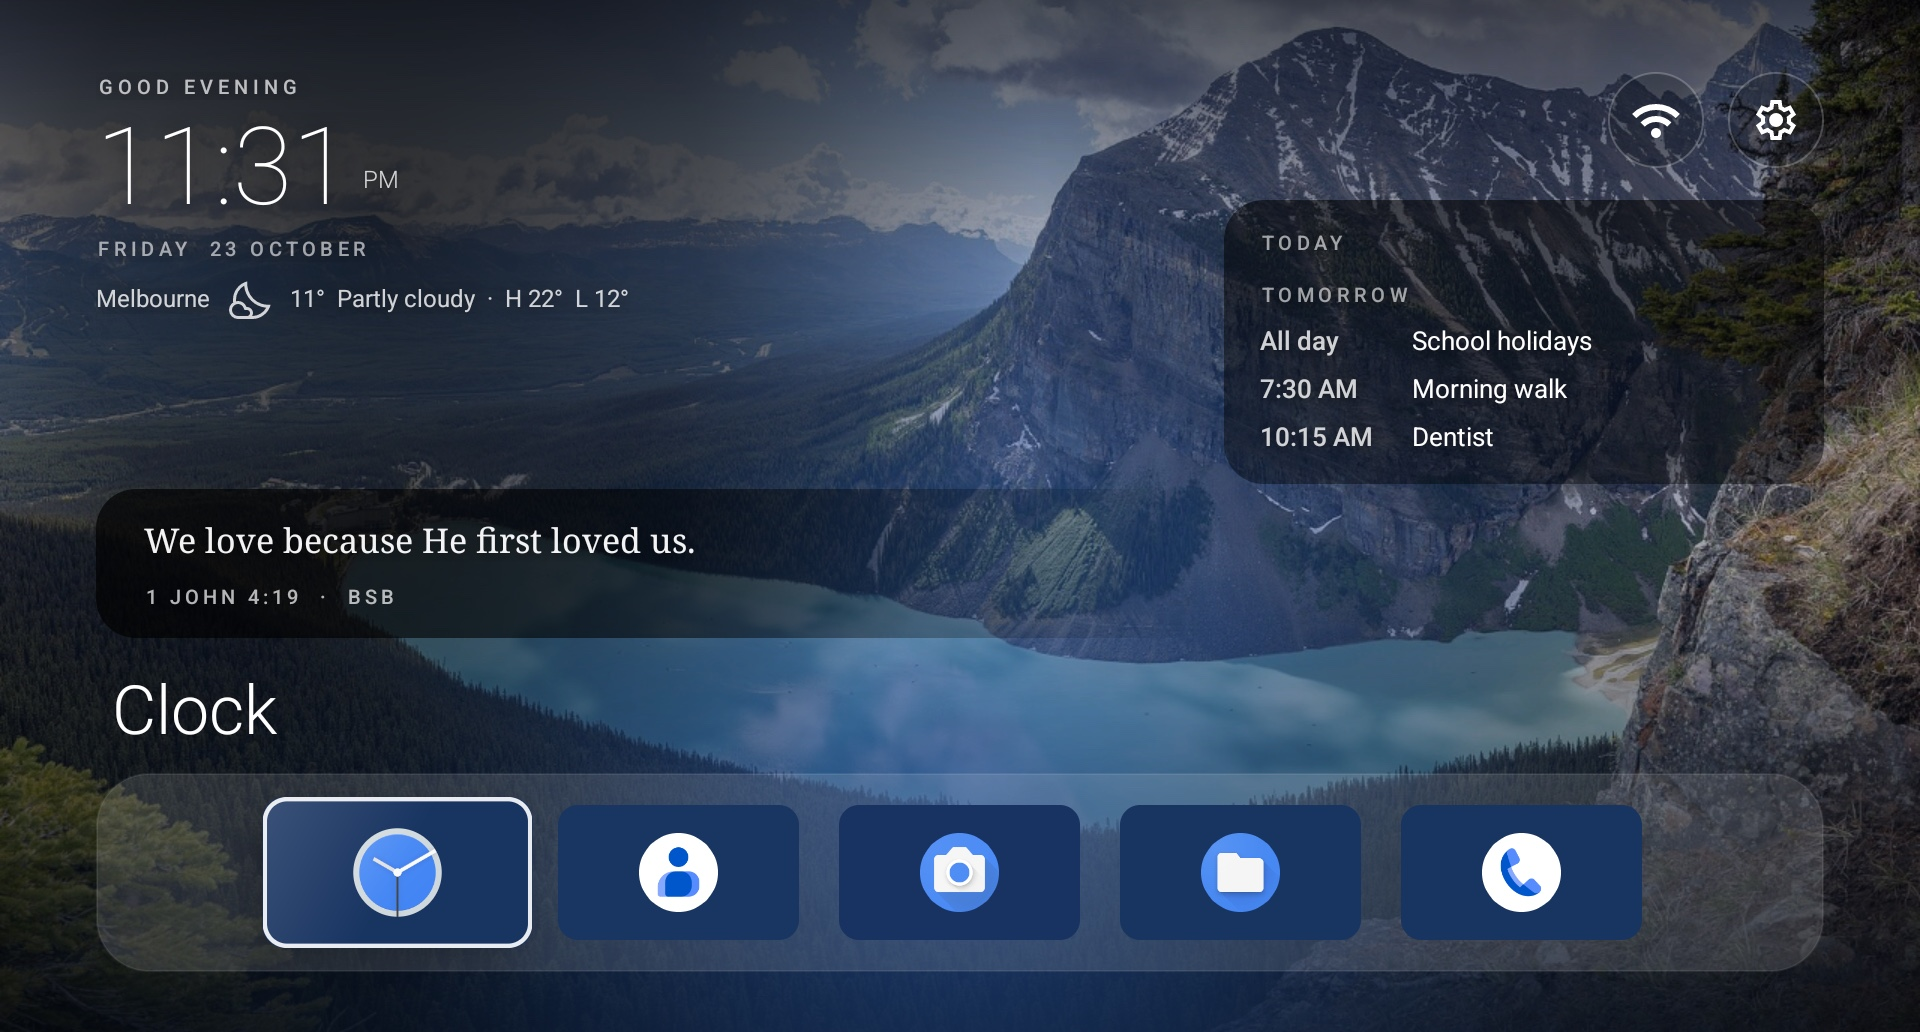
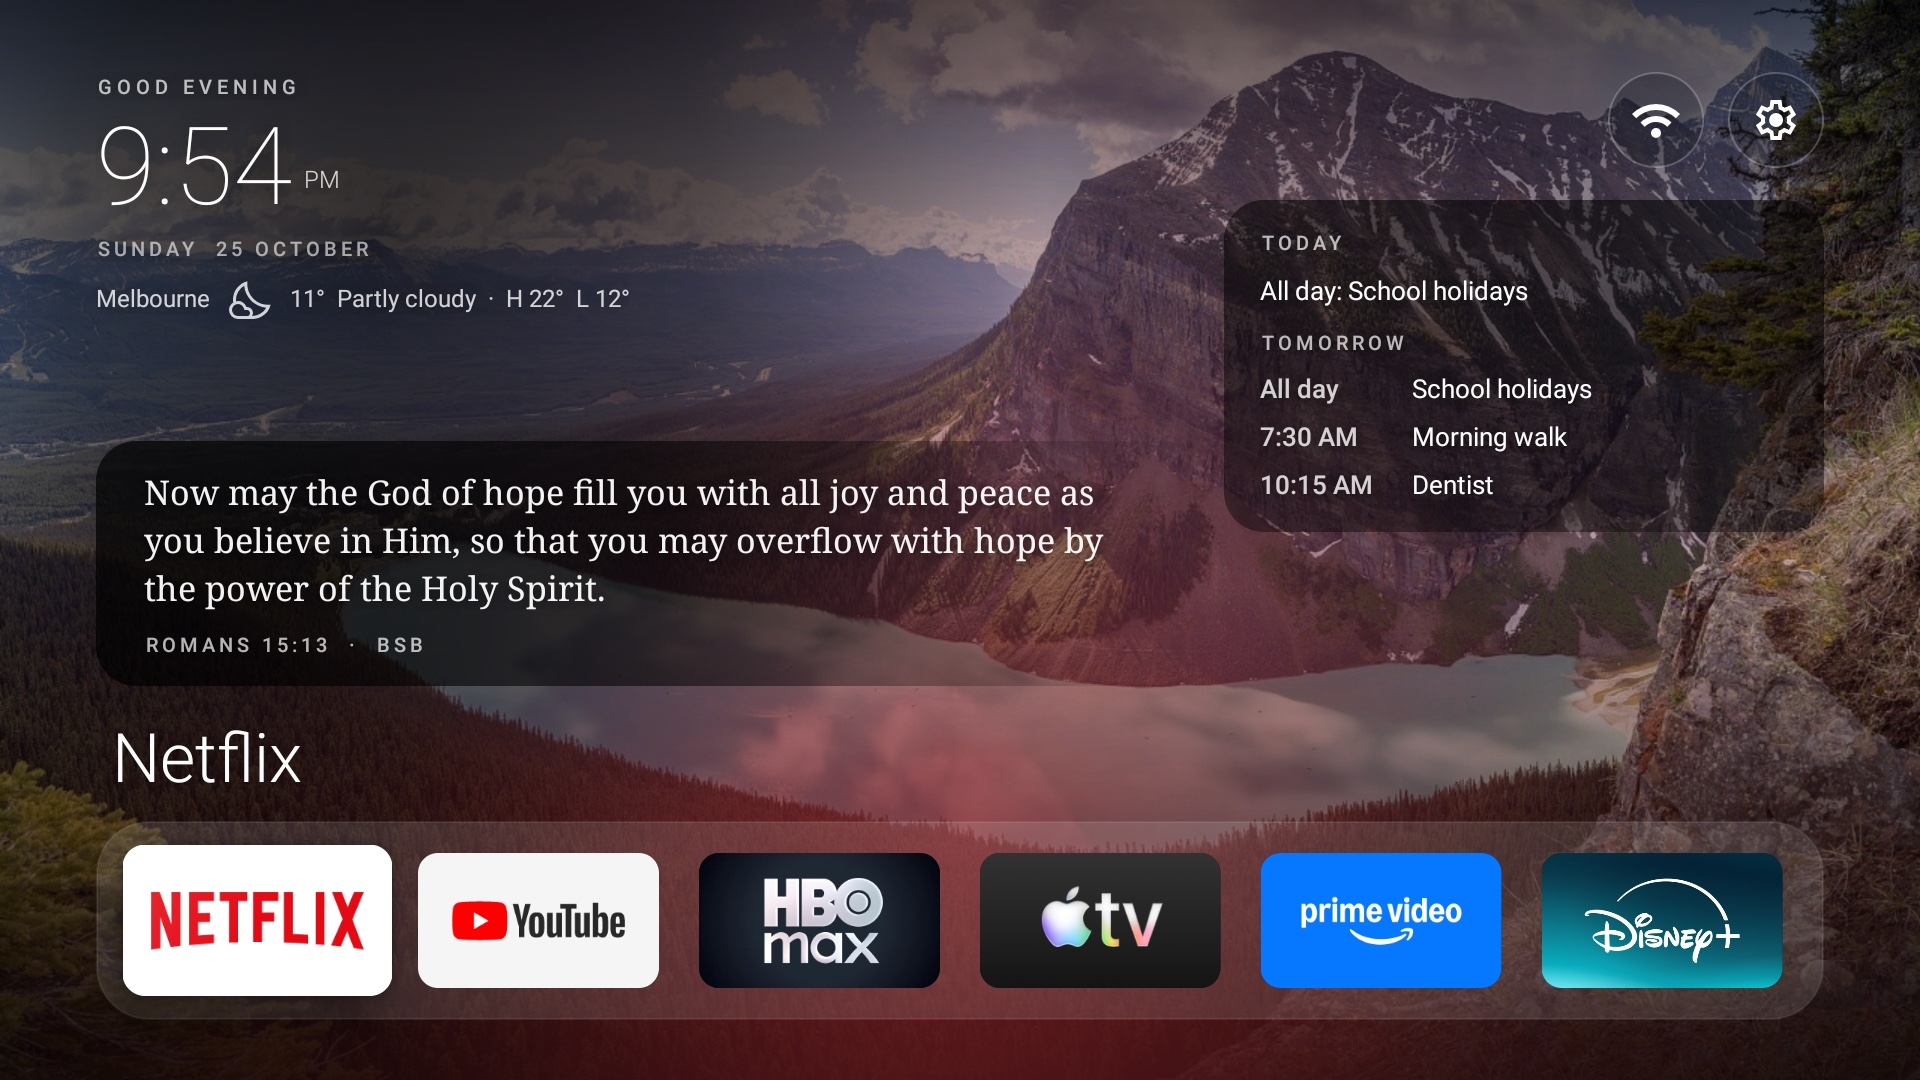
README: home screen screenshot from the Mi Box S with sample data
home-screen.jpg is now a 1920x1080 capture from a Xiaomi Mi Box S running a
sample-data build (made-up calendar events, fixed weather, the bundled BSB
verse, wallpaper 01). The grid screenshot stays from the emulator. Captions
and docs/screenshots/README.md say which is which, and the credits add a
line that the dock's app names and logos are their owners' trademarks.

diff --git a/README.md b/README.md
@@ -5,12 +5,15 @@ replaces the stock launcher with a clock, the weather, today's schedule, a verse
 dock of your apps over slowly changing nature photos. No ads, no recommendations, no background
 services.
 
-![Home screen: clock, weather, tomorrow's schedule, a BSB verse and a dock of five apps](docs/screenshots/home-screen.jpg)
+![Home screen on a Mi Box S: clock, weather, today's and tomorrow's schedule, a BSB verse and a dock of six apps](docs/screenshots/home-screen.jpg)
+
+*Sample data on a Xiaomi Mi Box S: made-up calendar events, fixed weather and the bundled BSB verse.*
 
 ![All apps grid with the long-press menu: Move, Add to dock, Hide](docs/screenshots/app-grid-menu.jpg)
 
-*Sample data on an Android TV emulator: made-up calendar events, fixed weather, the bundled BSB
-verse and the emulator's own apps. Wallpaper: "1 lake louise pano 2019" by Chensiyuan,
+*Sample data on an Android TV emulator, with the emulator's own apps.*
+
+*Wallpaper in both: "1 lake louise pano 2019" by Chensiyuan,
 [CC BY-SA 4.0](https://creativecommons.org/licenses/by-sa/4.0/), resized and cropped
 ([source](https://commons.wikimedia.org/wiki/File%3A1_lake_louise_pano_2019.jpg)).*
 
@@ -132,3 +135,6 @@ over the Home button.
   Platform. Fallback verses: Berean Standard Bible, public domain. ESV text © Crossway, fetched with
   your own key and never stored in this repository. Details and the full Apache 2.0 text are in
   [THIRD-PARTY-NOTICES.md](THIRD-PARTY-NOTICES.md).
+- Netflix, YouTube, HBO Max, Apple TV, Prime Video, Disney+ and other app names and logos are
+  trademarks of their owners and appear only to show which apps the dock holds. This project is not
+  affiliated with or endorsed by them.

diff --git a/docs/screenshots/README.md b/docs/screenshots/README.md
@@ -1,12 +1,14 @@
 # Screenshots
 
-- `home-screen.jpg`: the home screen.
-- `app-grid-menu.jpg`: the All Apps grid with an app's long-press menu.
+- `home-screen.jpg`: the home screen on a Xiaomi Mi Box S (1920×1080), taken from a sample-data
+  build: made-up calendar events, fixed weather and the bundled BSB verse. The dock shows the
+  box's own apps; their names and logos are trademarks of their owners.
+- `app-grid-menu.jpg`: the All Apps grid with an app's long-press menu, taken on the `tvtest_1080p`
+  Android emulator with the same kind of sample data and the emulator's own apps. It is cropped to
+  the 1920×1032 the launcher draws there, which keeps 48 px for a hidden navigation bar that the
+  Mi Box doesn't have.
 
-Both were taken on the `tvtest_1080p` Android emulator with sample data: made-up calendar events,
-fixed weather, the bundled BSB verse and the emulator's own apps, over wallpaper `01.jpg`. They are
-cropped to the 1920×1032 the launcher draws on the emulator, which keeps 48 px for a hidden
-navigation bar that the Mi Box doesn't have.
+Both show wallpaper `01.jpg` ("1 lake louise pano 2019" by Chensiyuan, CC BY-SA 4.0).
 
 If you add a screenshot that shows a wallpaper, credit that photo next to the image, using its entry
 in [launcher/WALLPAPER-CREDITS.md](../../launcher/WALLPAPER-CREDITS.md). Avoid screenshots that show
